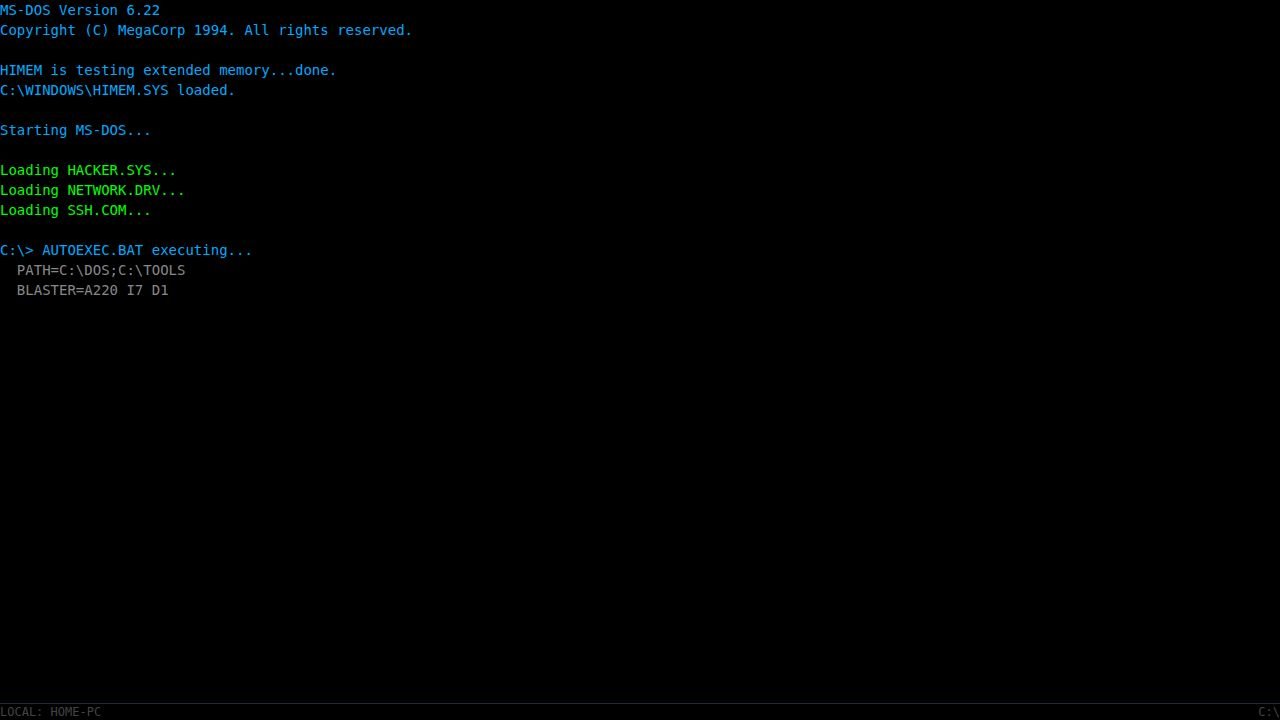
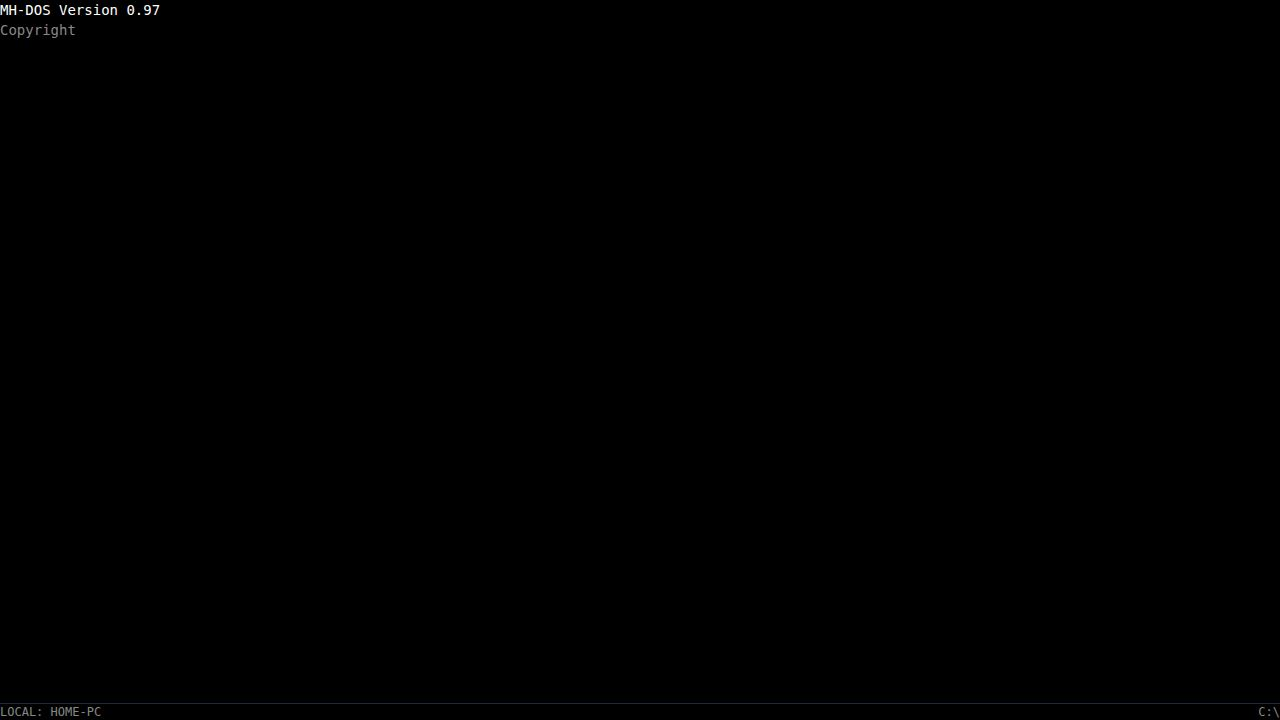
Add typewriter effect for terminal boot sequence
Implement a typewriter animation for the terminal boot sequence, with configurable character and art delays.

Replit-Commit-Author: Agent
Replit-Commit-Session-Id: 0b12e243-50b3-40fc-8bd6-2203f237046e
Replit-Commit-Checkpoint-Type: full_checkpoint
Replit-Commit-Event-Id: e929d3e5-a1d5-4f52-80e8-e56201997701
Replit-Commit-Screenshot-Url: https://storage.googleapis.com/screenshot-production-us-central1/197fa5a5-7549-4c30-a75b-0a9a2b43db56/0b12e243-50b3-40fc-8bd6-2203f237046e/stwA1Pn
Replit-Helium-Checkpoint-Created: true

diff --git a/artifacts/terminal-game/src/components/Terminal.tsx b/artifacts/terminal-game/src/components/Terminal.tsx
@@ -5,40 +5,38 @@ import { pathToString, setFileAtPath } from "../lib/fileSystemUtils";
 import { SERVERS, LOCAL_SERVER_ID } from "../data/servers";
 import { C } from "../lib/colors";
 
-// A boot line is either a plain string (white) or { text, color }
-type BootLine = string | { text: string; color: string };
+// A boot line is either:
+//   - a plain string "" or "__CLEAR__" for spacing / clear
+//   - { text, color, charDelay? }
+//       charDelay = ms between each character (default 18)
+//       set charDelay: 3 for ASCII art so it sweeps in fast
+type BootLine = string | { text: string; color: string; charDelay?: number };
+
+const CHAR_DELAY_DEFAULT = 18; // ms per character for normal text
+const CHAR_DELAY_ART     = 3;  // ms per character for ASCII art
+const LINE_GAP           = 60; // ms added after each line finishes
 
 const BOOT_SEQUENCE: BootLine[] = [
-  { text: "MH-DOS Version 0.97",                              color: C.WHITE  },
+  { text: "MH-DOS Version 0.97",                               color: C.WHITE },
   { text: "Copyright (C) Macrohard 1994. All rights reserved.", color: C.GREY  },
-  { text: "Starting MH-DOS...",                               color: C.WHITE  },
+  { text: "Starting MH-DOS...",                                color: C.WHITE },
   "",
   "",
-  { text: "Initiating CtrlOpus...",                           color: C.CYAN   },
+  { text: "Initiating CtrlOpus...",                            color: C.CYAN  },
   "__CLEAR__",
-  { text: "  ____  _____ ____ ___ ____ _____ _   _ ",         color: C.WHITE  },
-  { text: " |  _ \\| ____| __ )_ _|  _ \\_   _| | | |",       color: C.WHITE  },
-  { text: " | |_) |  _| |  _ \\| || |_) || | | |_| |",        color: C.WHITE  },
-  { text: " |  _ <| |___| |_) | ||  _ < | | |  _  |",        color: C.WHITE  },
-  { text: " |_| \\_\\_____|____/___|_| \\_\\|_| |_| |_|",       color: C.WHITE  },
-  { text: "  _        _     ____  ____  ",                    color: C.WHITE  },
-  { text: " | |      / \\   | __ )/ ___| ",                    color: C.WHITE  },
-  { text: " | |     / _ \\  |  _ \\___ \\ ",                    color: C.WHITE  },
-  { text: " | |___ / ___ \\ | |_) |___) |",                   color: C.WHITE  },
-  { text: " |_____/_/   \\_\\|____/|____/ ",                    color: C.WHITE  },
+  { text: "  ____  _____ ____ ___ ____ _____ _   _ ",          color: C.WHITE, charDelay: CHAR_DELAY_ART },
+  { text: " |  _ \\| ____| __ )_ _|  _ \\_   _| | | |",        color: C.WHITE, charDelay: CHAR_DELAY_ART },
+  { text: " | |_) |  _| |  _ \\| || |_) || | | |_| |",         color: C.WHITE, charDelay: CHAR_DELAY_ART },
+  { text: " |  _ <| |___| |_) | ||  _ < | | |  _  |",         color: C.WHITE, charDelay: CHAR_DELAY_ART },
+  { text: " |_| \\_\\_____|____/___|_| \\_\\|_| |_| |_|",        color: C.WHITE, charDelay: CHAR_DELAY_ART },
+  { text: "  _        _     ____  ____  ",                     color: C.WHITE, charDelay: CHAR_DELAY_ART },
+  { text: " | |      / \\   | __ )/ ___| ",                     color: C.WHITE, charDelay: CHAR_DELAY_ART },
+  { text: " | |     / _ \\  |  _ \\___ \\ ",                     color: C.WHITE, charDelay: CHAR_DELAY_ART },
+  { text: " | |___ / ___ \\ | |_) |___) |",                    color: C.WHITE, charDelay: CHAR_DELAY_ART },
+  { text: " |_____/_/   \\_\\|____/|____/ ",                     color: C.WHITE, charDelay: CHAR_DELAY_ART },
   "",
   "",
-  "",
-  "",
-  "",
-  "",
-  "",
-  "",
-  "",
-  "",
-  "",
-  "__CLEAR__",
-  { text: "Type HELP for available commands.",                 color: C.GREY   },
+  { text: "Type HELP for available commands.",                  color: C.GREY  },
   "",
 ];
 
@@ -91,37 +89,61 @@ export default function Terminal() {
   }, [state.lines, state.currentInput]);
 
   useEffect(() => {
-    let timeouts: ReturnType<typeof setTimeout>[] = [];
+    const timeouts: ReturnType<typeof setTimeout>[] = [];
     let delay = 0;
 
     for (const entry of BOOT_SEQUENCE) {
-      const isStr = typeof entry === "string";
-      const text  = isStr ? entry : entry.text;
-      const color = isStr ? C.WHITE : entry.color;
+      const isStr   = typeof entry === "string";
+      const text    = isStr ? entry : entry.text;
+      const color   = isStr ? C.WHITE : entry.color;
+      const cDelay  = isStr ? CHAR_DELAY_DEFAULT : (entry.charDelay ?? CHAR_DELAY_DEFAULT);
 
-      const t = setTimeout(() => {
-        if (text === "__CLEAR__") {
+      if (text === "__CLEAR__") {
+        timeouts.push(setTimeout(() => {
           setState((prev) => ({ ...prev, lines: [] }));
-        } else {
+        }, delay));
+        delay += 80;
+        continue;
+      }
+
+      if (text === "") {
+        timeouts.push(setTimeout(() => {
           setState((prev) => ({
             ...prev,
-            lines: [
-              ...prev.lines,
-              makeLine("system", text, color),
-            ],
+            lines: [...prev.lines, makeLine("system", "", color)],
           }));
-        }
-      }, delay);
+        }, delay));
+        delay += 30;
+        continue;
+      }
 
-      timeouts.push(t);
-      delay += text === "" ? 30 : 40;
+      // Push an empty line first, then fill it character by character
+      timeouts.push(setTimeout(() => {
+        setState((prev) => ({
+          ...prev,
+          lines: [...prev.lines, makeLine("system", "", color)],
+        }));
+      }, delay));
+
+      for (let i = 1; i <= text.length; i++) {
+        const partial = text.slice(0, i);
+        timeouts.push(setTimeout(() => {
+          setState((prev) => {
+            const lines = [...prev.lines];
+            const last  = lines[lines.length - 1];
+            if (last) lines[lines.length - 1] = { ...last, content: partial };
+            return { ...prev, lines };
+          });
+        }, delay + i * cDelay));
+      }
+
+      delay += text.length * cDelay + LINE_GAP;
     }
 
-    const doneTimeout = setTimeout(() => {
+    timeouts.push(setTimeout(() => {
       setBooted(true);
       inputRef.current?.focus();
-    }, delay + 100);
-    timeouts.push(doneTimeout);
+    }, delay + 100));
 
     return () => timeouts.forEach(clearTimeout);
   }, []);
